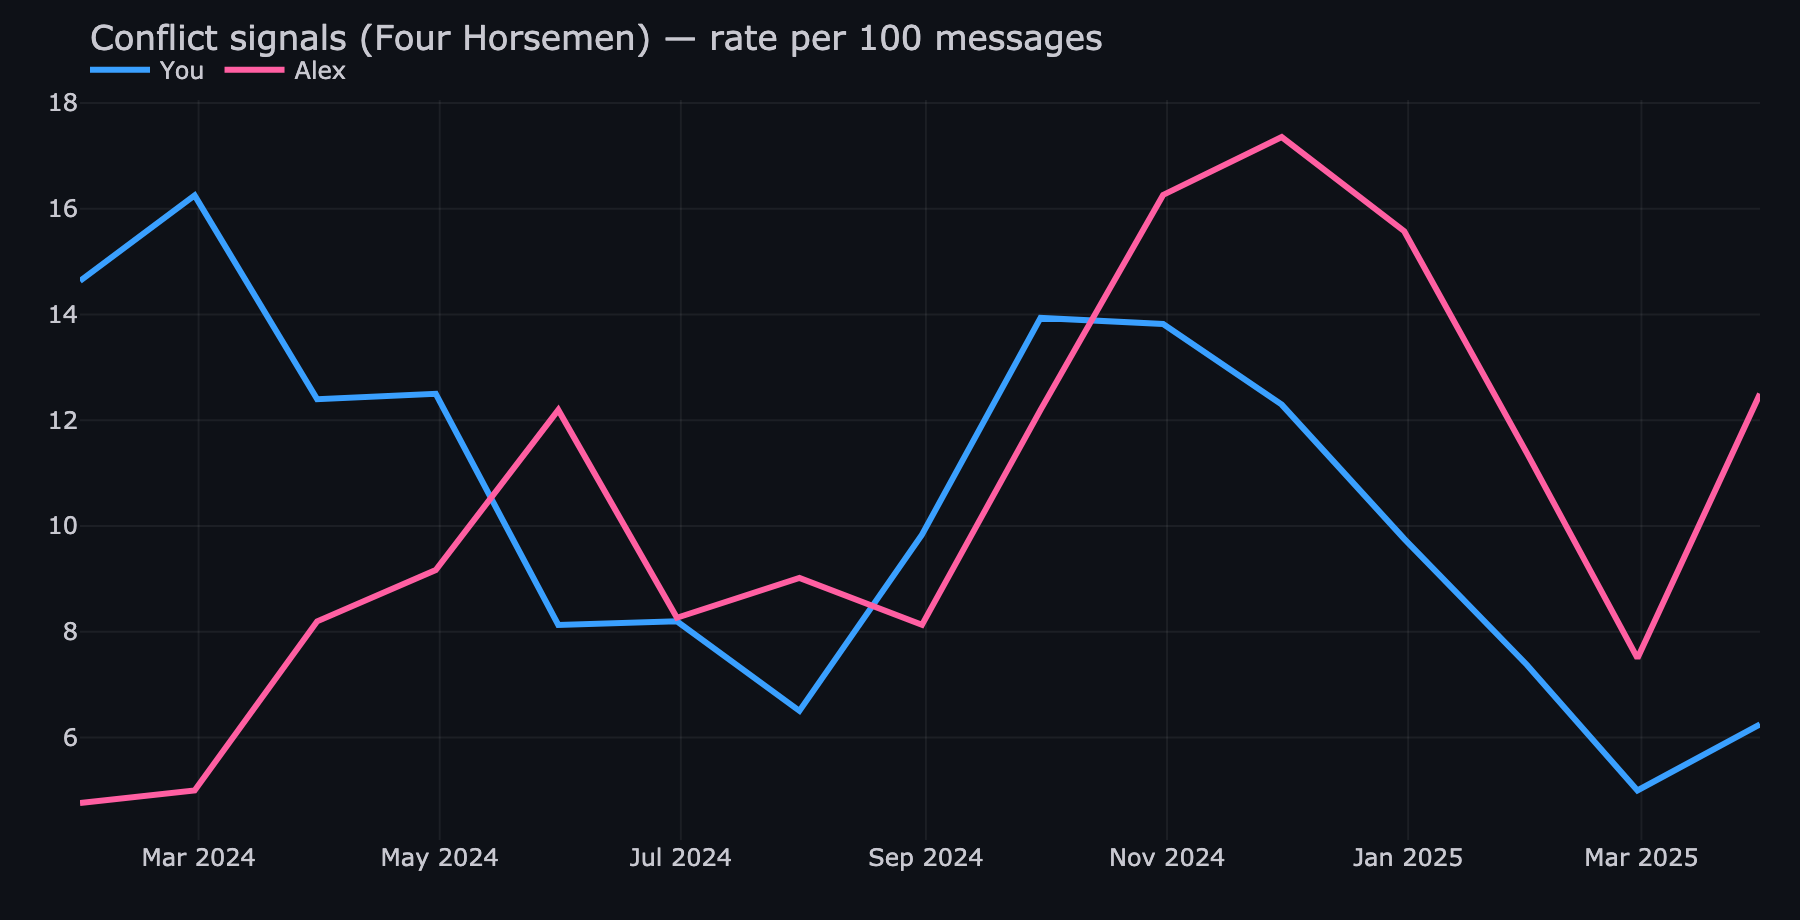
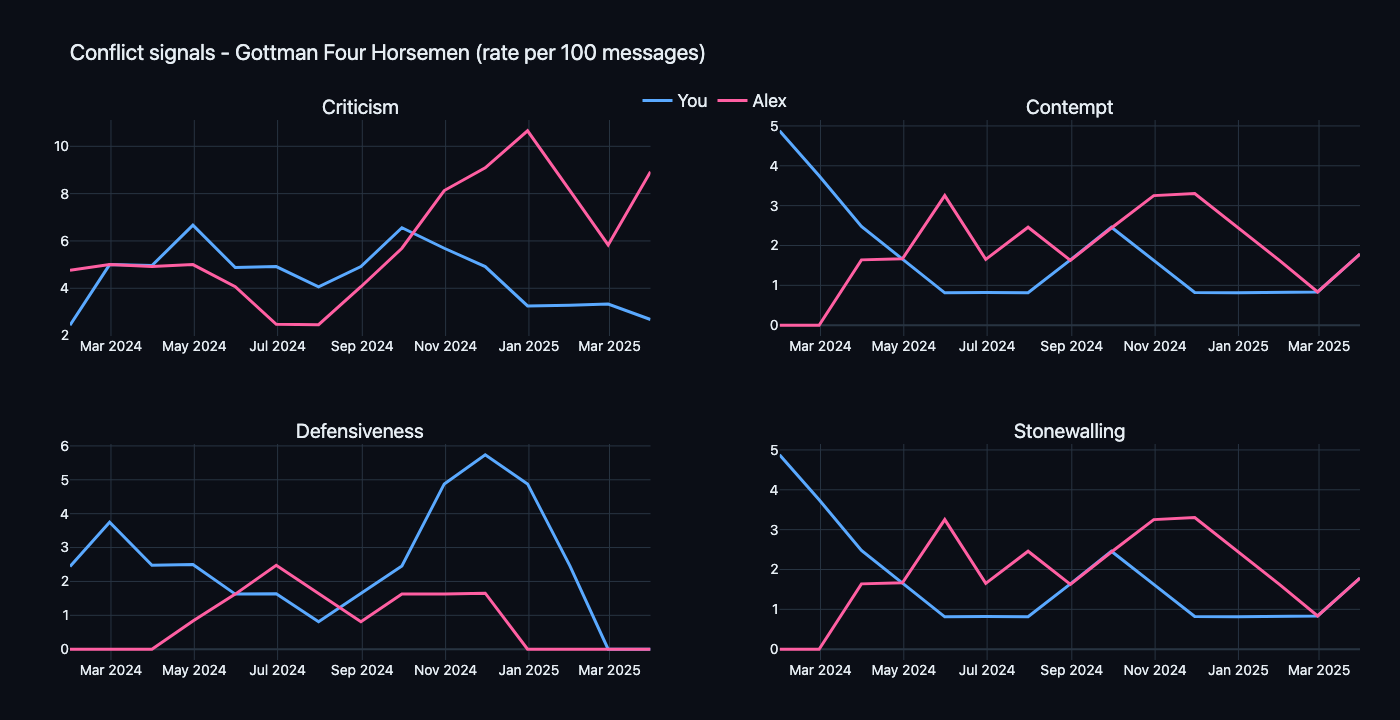
Polish 3 new posts: 4-Horsemen panel, OneRing archetype clusters, full-width images
- subtext: regenerate sample_gottman with a 4-panel breakdown (criticism /
  contempt / defensiveness / stonewalling), bigger labels, full-width display.
- OneRing: swap to the archetype-cluster blobmap (low demand / high price
  stability / low reprint safety / high spike upside / no sell pressure)
  which is the actually-informative dashboard view.
- mtg-beauty-signal: drop float-left so the tall portrait grid doesn't leave
  empty space next to it; centred at 60% width.

diff --git a/blog.html b/blog.html
@@ -42,7 +42,7 @@
           <div class="blog-post-title">subtext: Your iMessage History, Read as Relationship Science</div>
           <div class="blog-post-body">
 
-<img src="blog_subtext.png" alt="subtext dashboard: Gottman Four Horsemen rate per 100 messages over time, two participants compared" class="blog-img" />
+<img src="blog_subtext.png" alt="subtext dashboard: Gottman Four Horsemen panel - criticism, contempt, defensiveness, stonewalling - rate per 100 messages, two participants compared" class="blog-img" style="float:none;display:block;max-width:100%;margin:0.5rem auto 1rem;" />
 
 <p>One of those projects that I built mostly for myself and then realised other people would probably want too. <strong>subtext</strong> is a private, on-device dashboard that reads your local macOS Messages database in read-only mode and turns the conversation history into a relationship-science readout. Nothing leaves the Mac. No cloud. No accounts. The cache, the contact aliases, and obviously the messages themselves are all gitignored and never get uploaded anywhere.</p>
 
@@ -83,7 +83,7 @@
           <div class="blog-post-title">OneRing: Fusing Eight MTG Signals Into a Single Verdict</div>
           <div class="blog-post-body">
 
-<img src="blog_onering.png" alt="CardConclave market map: every MTG card mapped and coloured by buy/hold/sell verdict on a price-vs-strategy plane" class="blog-img" />
+<img src="blog_onering.png" alt="CardConclave archetype map: every MTG card placed in a cluster (low demand / high price stability / low reprint safety / high spike upside / no sell pressure) with your collection overlaid as bright dots" class="blog-img" style="float:none;display:block;max-width:100%;margin:0.5rem auto 1rem;" />
 
 <p>Capstone of the Cameraderie Cards suite. After shipping all the individual signals - buy, sell, reprint, demand, liquidity, volatility, beauty, uniqueness - the obvious next move was to fuse them. <strong>OneRing</strong> takes the eight per-card outputs, joins them on Scryfall <code>oracle_id</code>, and emits a single risk-adjusted verdict per card: STRONG BUY, BUY, HOLD, AVOID. The interactive dashboard (CardConclave) adds a ninth signal - a learned per-card <strong>seasonality</strong> curve - that the user can tune live alongside the eight base signals.</p>
 
@@ -134,7 +134,7 @@
           <div class="blog-post-title">mtg-beauty-signal: Teaching a Model My Taste in MTG Art</div>
           <div class="blog-post-body">
 
-<img src="blog_beauty.jpg" alt="mtg-beauty-signal: art beauty levels, from highest aesthetic score (top) to lowest (bottom), as scored by the personal-taste RankNet" class="blog-img" />
+<img src="blog_beauty.jpg" alt="mtg-beauty-signal: art beauty levels, from highest aesthetic score (top) to lowest (bottom), as scored by the personal-taste RankNet" class="blog-img" style="float:none;display:block;max-width:60%;margin:0.5rem auto 1rem;" />
 
 <p>I have ~105,000 Magic cards' worth of art sitting on disk and a strong, mostly-unarticulated preference about which of them I find beautiful. The question I wanted to answer this weekend: <strong>can I get a model to learn my taste well enough to rank arbitrary new cards I've never seen?</strong></p>
 